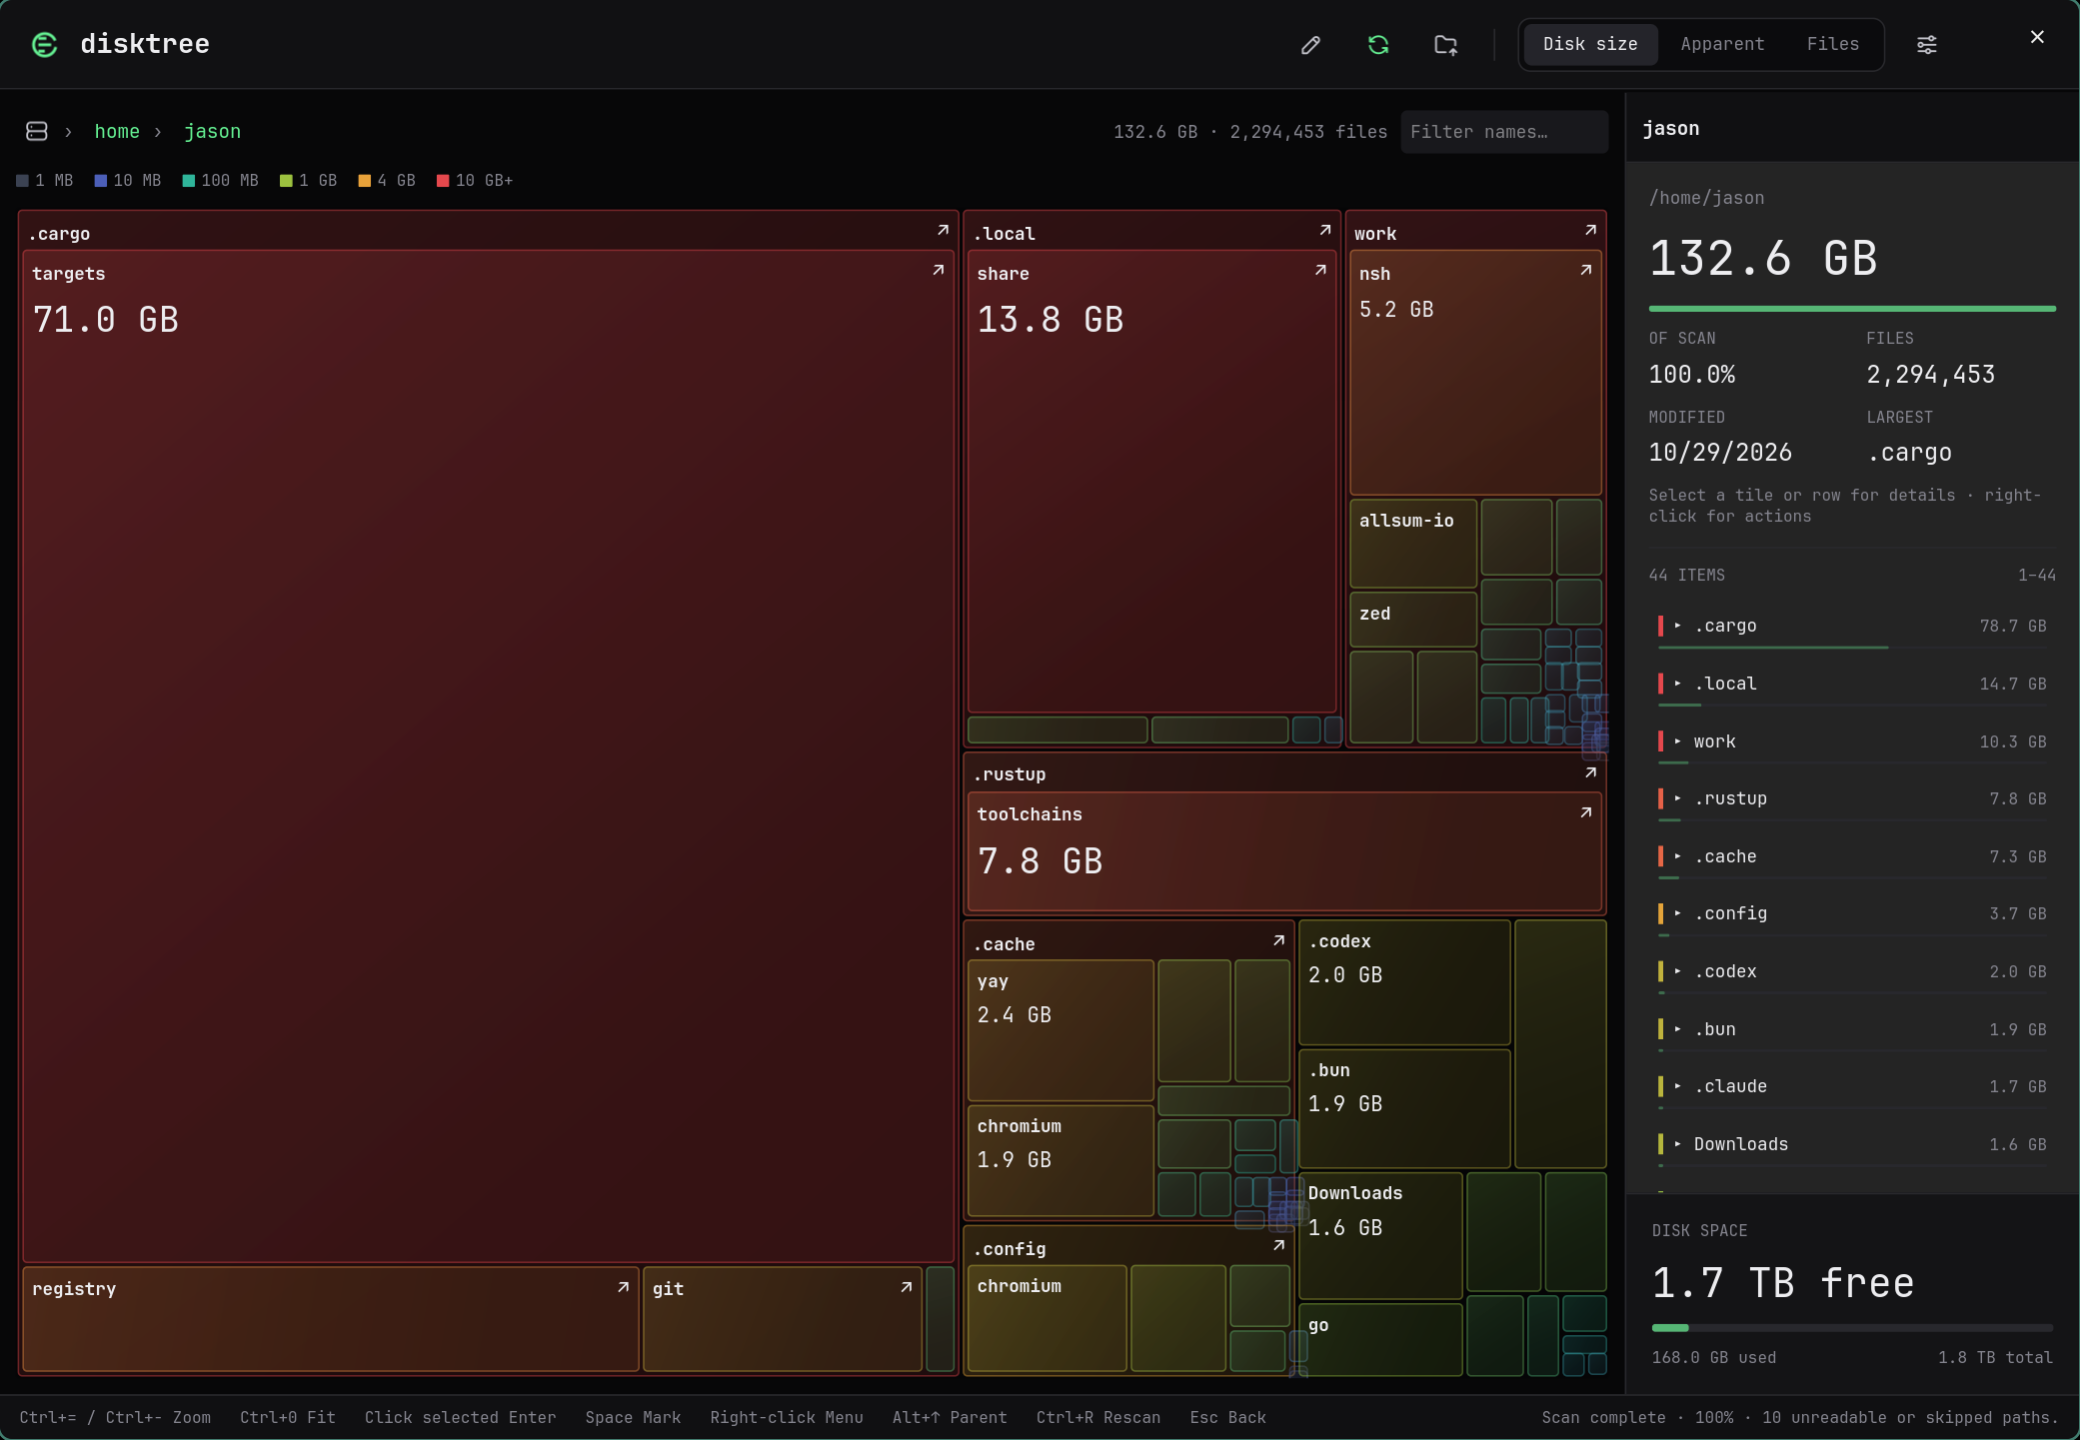
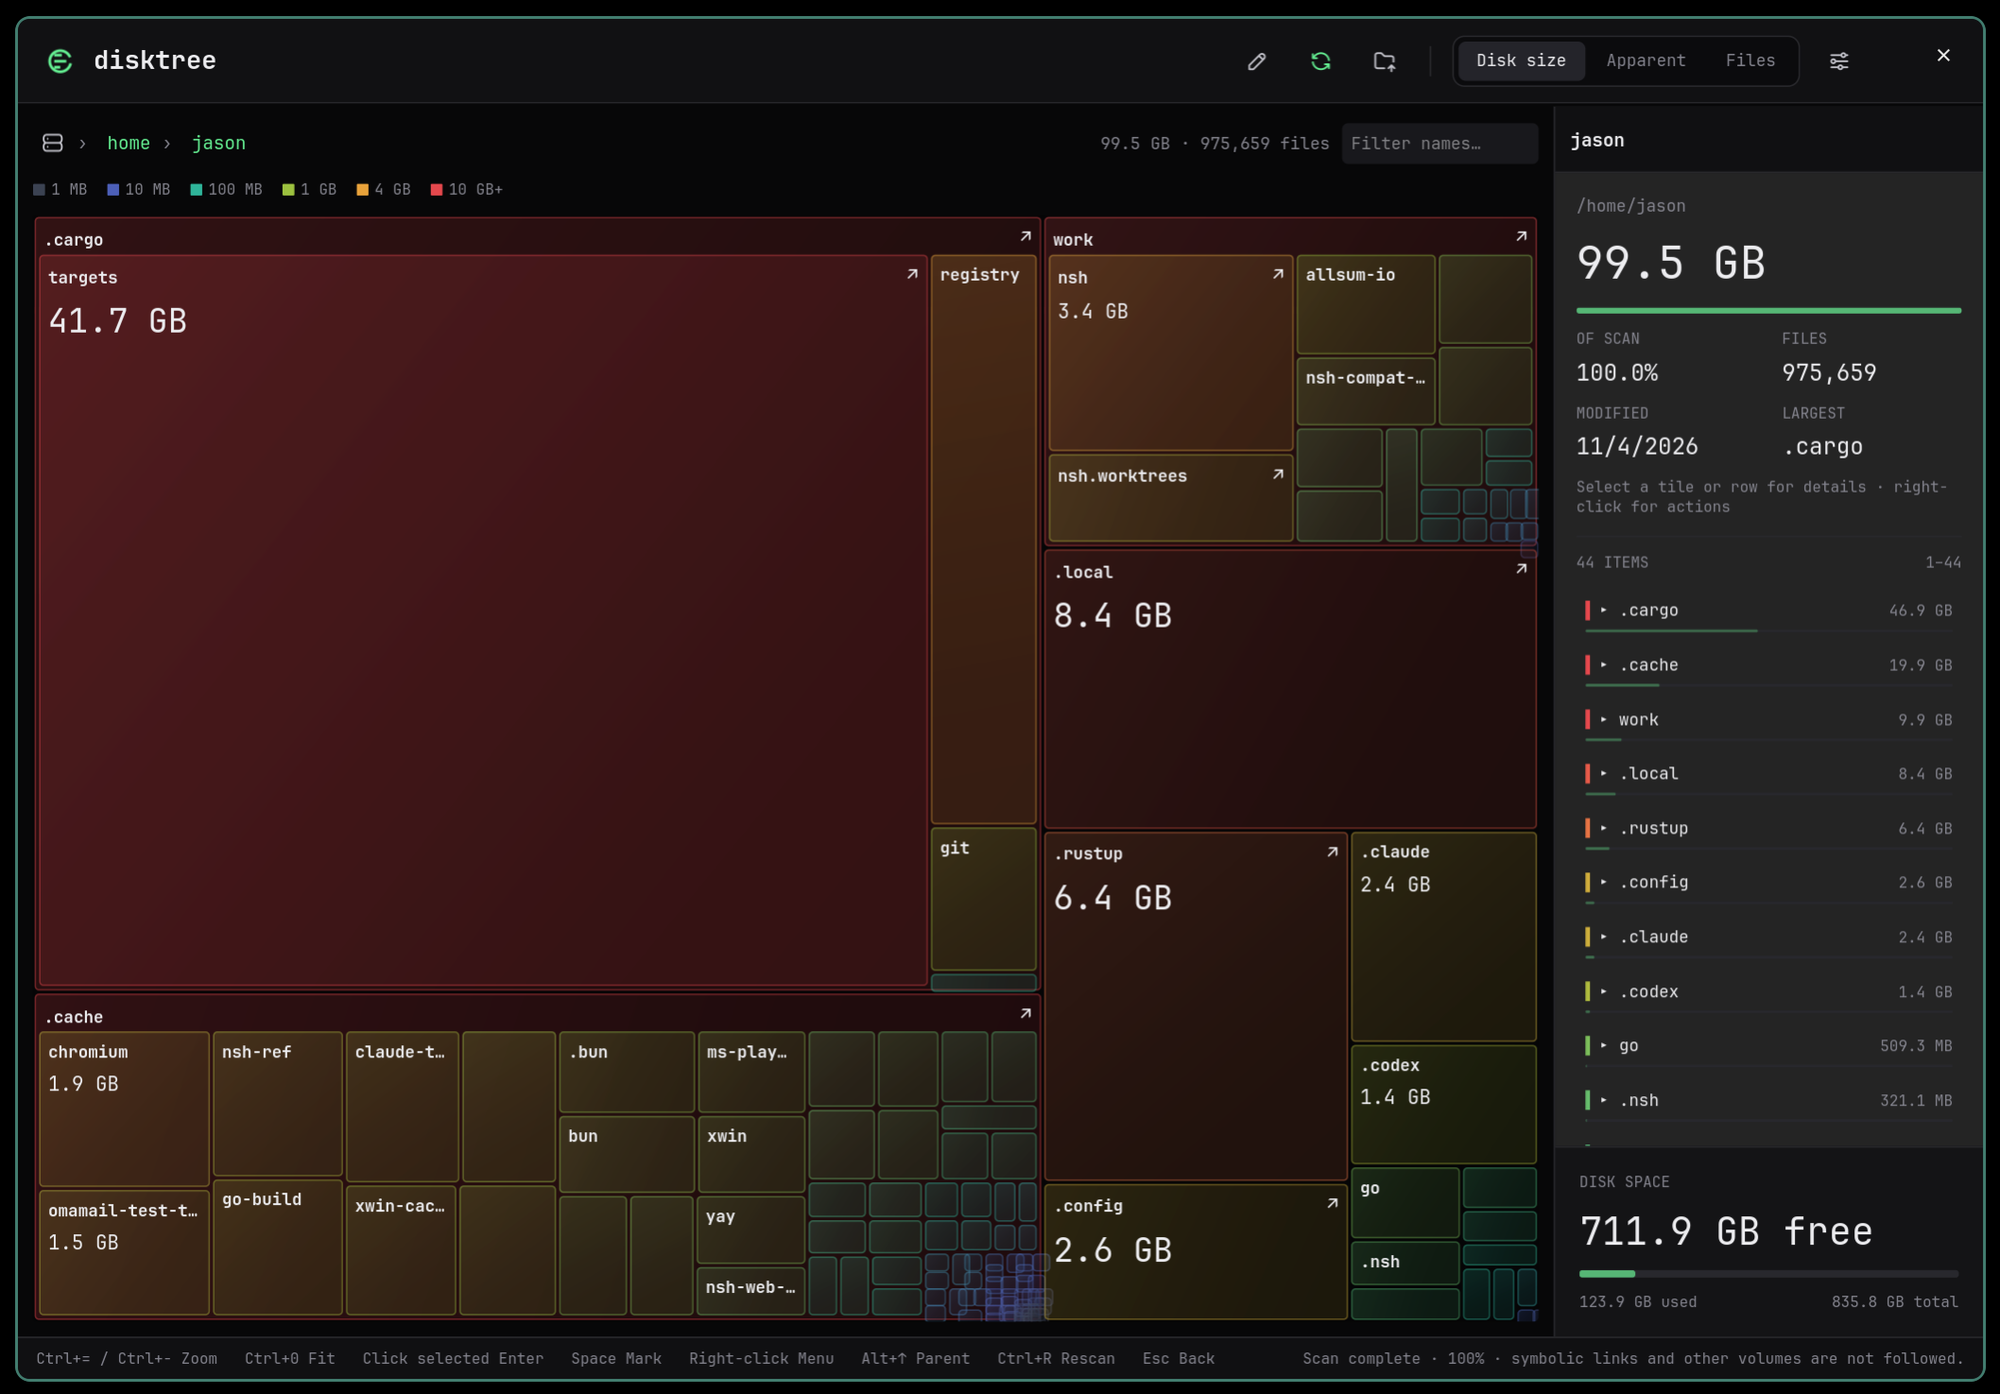
docs: Use the new screenshot on the website and README
The README now shows the image from the repository, so it stays the same
as the website.

Changed region(s): [[0.0, 0.0, 1.0, 1.0], [0.62, 0.0, 0.93, 0.0617]]

diff --git a/website/tests/website.spec.ts b/website/tests/website.spec.ts
@@ -41,7 +41,7 @@ test('screenshot loads at its declared size', async ({ page }) => {
   await page.goto('./');
   const image = page.locator('.app-screenshot img');
   await image.scrollIntoViewIfNeeded();
-  await expect.poll(() => image.evaluate((element: HTMLImageElement) => [element.naturalWidth, element.naturalHeight])).toEqual([2080, 1440]);
+  await expect.poll(() => image.evaluate((element: HTMLImageElement) => [element.naturalWidth, element.naturalHeight])).toEqual([2000, 1394]);
 });
 
 test('related projects link to the other projects in both languages', async ({ page }) => {

diff --git a/README.md b/README.md
@@ -2,7 +2,7 @@
 
 A native disk-space explorer built with **nsh**, inspired by [tobi/disktree](https://github.com/tobi/disktree). Runs on macOS and Linux with an original capacity-ring icon and a black interface with subtle dimensional surfaces and vivid size colors.
 
-<img width="2080" height="1440" alt="image" src="https://github.com/user-attachments/assets/cd8c51c5-d6c0-456d-ba84-5f391530ae39" />
+<img width="2000" height="1394" alt="Disktree showing a home directory as a nested treemap, with a contents list and free disk space in the sidebar" src="website/public/screenshot.png" />
 
 [Website](https://huacnlee.github.io/disktree/) · [Download](https://github.com/huacnlee/disktree/releases) · [Installation guide](docs/install.md)
 
